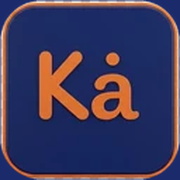
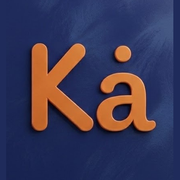
PWA version 3

diff --git a/apps/student/src/components/InstallPrompt.jsx b/apps/student/src/components/InstallPrompt.jsx
@@ -101,7 +101,7 @@ export default function InstallPrompt({ appName = 'kabakaba' }) {
   return (
     <div className="install-backdrop" role="dialog" aria-modal="true" aria-labelledby="install-title">
       <div className="install-sheet">
-        <img src="/apple-touch-icon.png" alt="" className="install-logo" width="72" height="72" />
+        <img src="/logo.png" alt="" className="install-logo" width="88" height="88" />
         <h2 id="install-title">Épingler {appName}</h2>
         <p>
           Ajoute l’app sur ton écran d’accueil pour l’ouvrir comme une application

diff --git a/apps/student/vite.config.js b/apps/student/vite.config.js
@@ -12,13 +12,14 @@ export default defineConfig({
         'apple-touch-icon.png',
         'logo.png',
         'logo.webp',
+        'logo-1024.png',
       ],
       manifest: {
         name: 'kabakaba',
         short_name: 'kabakaba',
         description: 'Commande de repas campus — étudiant',
-        theme_color: '#0D1438',
-        background_color: '#0D1438',
+        theme_color: '#1F2B5B',
+        background_color: '#1F2B5B',
         display: 'standalone',
         orientation: 'portrait',
         start_url: '/',

diff --git a/apps/student/src/App.jsx b/apps/student/src/App.jsx
@@ -15,7 +15,7 @@ import InstallPrompt from './components/InstallPrompt';
 function Bootstrap() {
   return (
     <div className="bootstrap">
-      <img className="bootstrap-logo" src="/apple-touch-icon.png" alt="kabakaba" width="72" height="72" />
+      <img className="bootstrap-logo" src="/logo.png" alt="kabakaba" width="88" height="88" />
       <div className="bootstrap-title">kabakaba</div>
       <div className="spinner spinner--light" />
     </div>

diff --git a/apps/student/index.html b/apps/student/index.html
@@ -6,7 +6,7 @@
       name="viewport"
       content="width=device-width, initial-scale=1.0, viewport-fit=cover"
     />
-    <meta name="theme-color" content="#0D1438" />
+    <meta name="theme-color" content="#1F2B5B" />
     <meta name="mobile-web-app-capable" content="yes" />
     <meta name="apple-mobile-web-app-capable" content="yes" />
     <meta name="apple-mobile-web-app-status-bar-style" content="black-translucent" />

diff --git a/apps/student/src/pages/LoginPage.jsx b/apps/student/src/pages/LoginPage.jsx
@@ -114,7 +114,7 @@ export default function LoginPage() {
   return (
     <div className="auth-scaffold">
       <div className="auth-hero">
-        <img className="auth-logo" src="/apple-touch-icon.png" alt="" width="48" height="48" />
+        <img className="auth-logo" src="/logo.png" alt="" width="56" height="56" />
         <div className="auth-brand">kabakaba</div>
         <h1>
           {step === 'phone'

diff --git a/apps/student/src/styles/global.css b/apps/student/src/styles/global.css
@@ -175,13 +175,13 @@ a {
 }
 
 .install-logo {
-  width: 72px;
-  height: 72px;
-  border-radius: 18px;
+  width: 88px;
+  height: 88px;
+  border-radius: 22px;
   object-fit: cover;
-  margin: 0 auto 12px;
+  margin: 0 auto 14px;
   display: block;
-  box-shadow: 0 8px 22px rgba(27, 42, 107, 0.22);
+  box-shadow: 0 10px 28px rgba(27, 42, 107, 0.28);
 }
 
 .install-sheet h2 {

diff --git a/apps/student/src/styles/auth.css b/apps/student/src/styles/auth.css
@@ -222,11 +222,11 @@
 }
 
 .bootstrap-logo {
-  width: 72px;
-  height: 72px;
-  border-radius: 20px;
+  width: 88px;
+  height: 88px;
+  border-radius: 22px;
   object-fit: cover;
-  box-shadow: 0 10px 28px rgba(0, 0, 0, 0.28);
+  box-shadow: 0 12px 32px rgba(0, 0, 0, 0.32);
 }
 
 .bootstrap-title {
